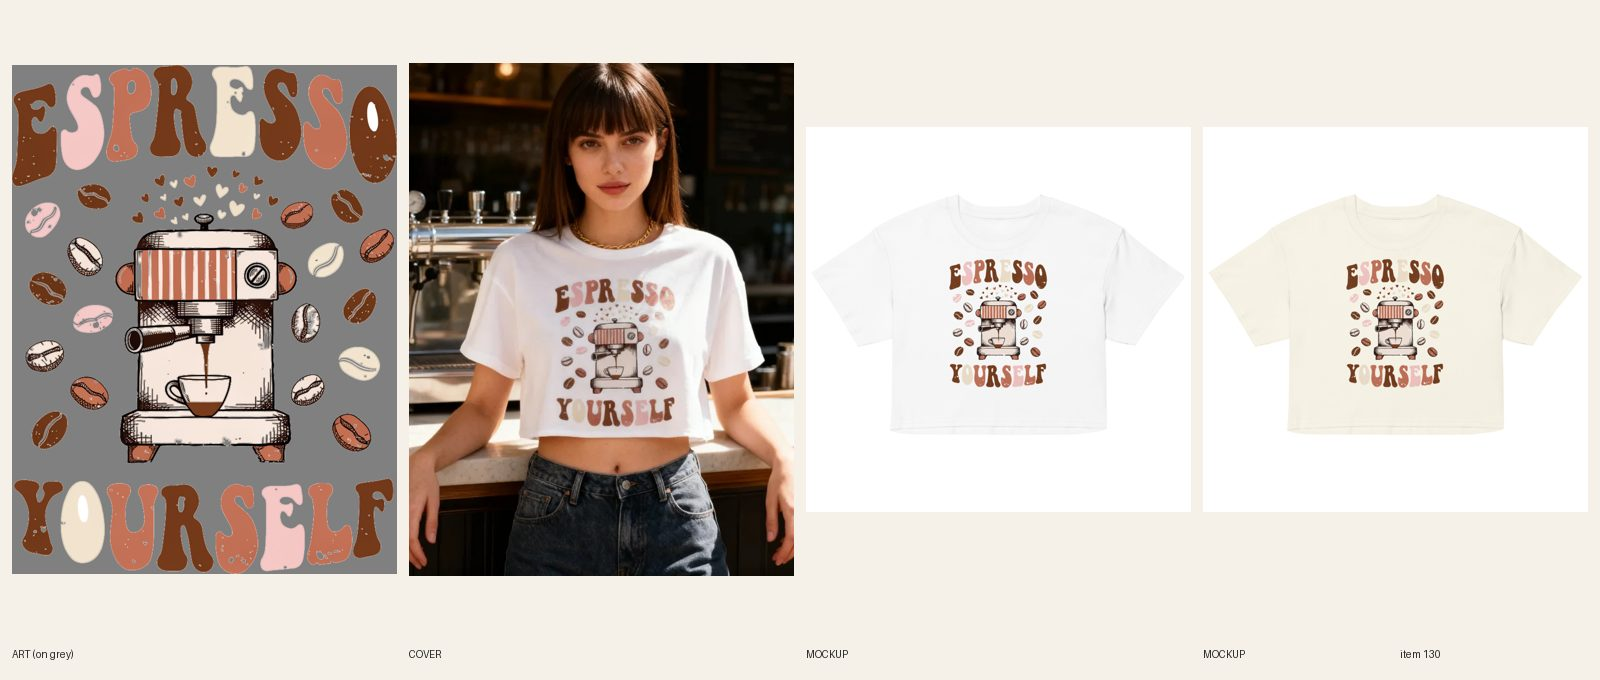
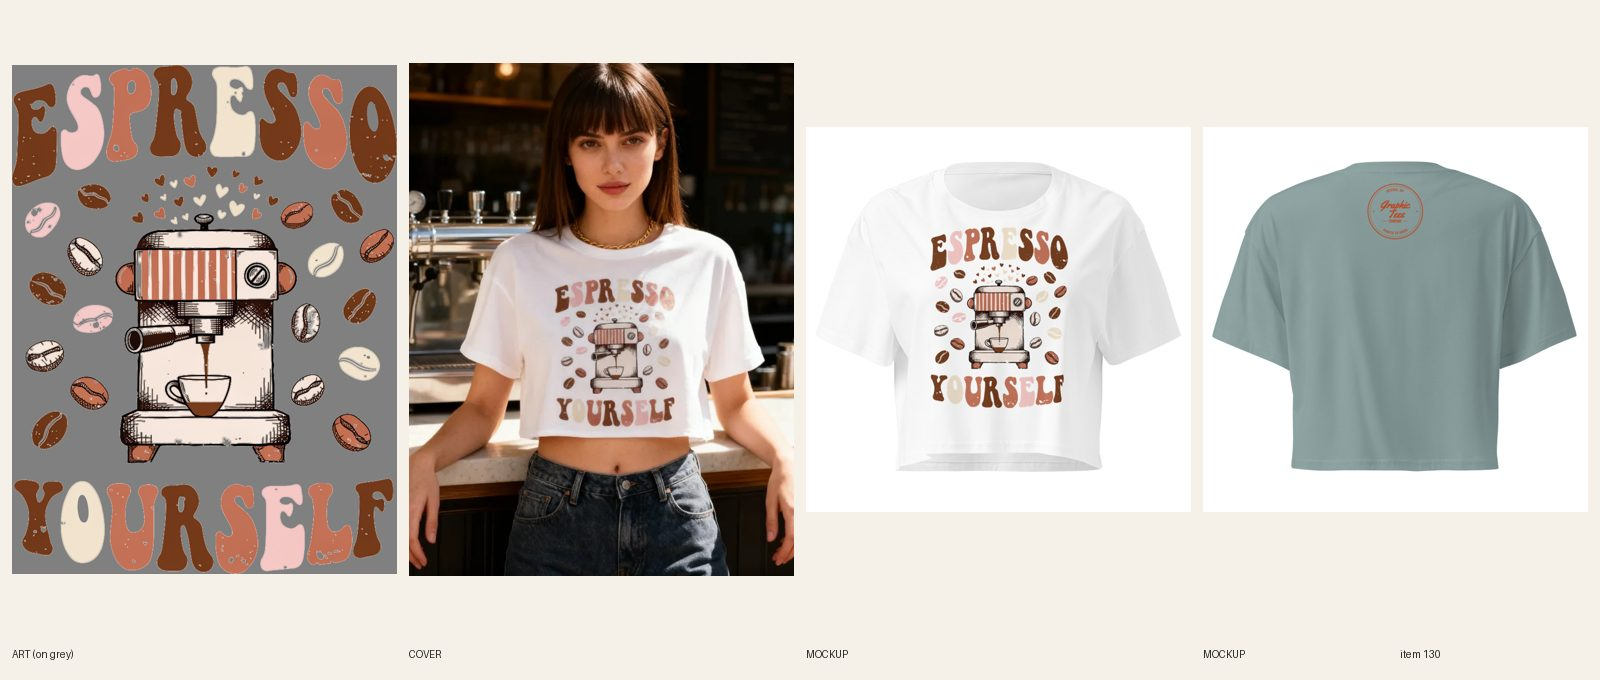
[B] review 130 (REDO done)

diff --git a/docs/intake-log.md b/docs/intake-log.md
@@ -1,4 +1,5 @@
 RUNNING lane B since 2026-10-16 12:28 UTC
+2026-10-16 12:41 UTC — [B] REDO #130 Espresso Yourself fixed: O counters transparent, re-placed at max fit (7.6 x 10 in; 8.5 in wide would clip YOURSELF in the 10 in area), 40/40 re-synced, mockups swapped, copy size line corrected. Status REVIEW (docs/review/130.jpg).
 2026-10-16 11:06 UTC — [B] REDO #127 Casserole Ministry fixed: O counters knocked out to transparent, quilted-mitts copy, new cover; 54 variants re-synced, status REVIEW (docs/review/127.jpg).
 2026-10-16 10:46 UTC — [B] Women's Nurse – Don't Say the Q Word Tee (womens-nurse-dont-say-the-q-word-graphic-tee, Shopify 15356877275440): brief #132, DRAFT → REVIEW. $24.99 / compare-at $29.99 ×54 (9 colors, S–3XL), tags nurse-shirts, graphic-tees-for-women, vintage-graphic-tees. Primary er nurse shirt 720/KD53. Printful synced 54/54 (file 1087368565). Media: flat/ghost fronts regenerated from the final print file + 1 back, variant images linked. Cover registry done. Audit needs Storefront token: cohesion checked by hand. Review sheet docs/review/132.jpg.
 2026-10-16 10:25 UTC — [D] Queue: new READY #159–162 (lane A: Sleigh Queen tee + crewneck, boutique plaid; Technically a Sweater tee + crewneck) and #163–168 (lane B: men's redo Beach Body Pending, Peaked in 1898, Conflict Resolution; new Professional Line Untangler, Rest Day Enthusiast, Knot Today). Registry #229–238 reserved. Men's redo list complete. READY now: lane A 13, lane B 13 (+ REDO A 1, B 2). Lock released.

diff --git a/docs/pipeline/130-cropped-espresso-yourself.md b/docs/pipeline/130-cropped-espresso-yourself.md
@@ -1,4 +1,4 @@
-status: BUILDING [B] 2026-10-16T10:46Z
+status: REVIEW
 lane: B
 type: new
 id: 130
@@ -21,3 +21,4 @@ handle: womens-cropped-espresso-yourself-graphic-tee
   1. R5.3.8 (letter fills): the last O in ESPRESSO has a solid white counter, and the O in YOURSELF carries a white oval highlight. On Pale Pink, Hazy Pink, Bubblegum and Mineral these print as white dots in the word. Knock the counters out to transparent in print-prep (keep the cream letters cream), preview on grey and on Mineral.
   2. R5.3.2 (fills the print area): the print is only 7.3 in wide; on the mockups it reads small next to Matcha Made in Heaven (8.5 in on the same 4062 blank). Re-place at 8.5 in wide, top 0, centered.
   Then re-upload, re-sync the 40 variants to the new file, regenerate mockups + variant images, new review sheet. Cover can stay (the print on it is the same art).
+- 2026-10-16 12:41 UTC [B]: REDO fix done: counters knocked out (art130fixed, file 1087506635), re-placed at the full print height (7.6 in wide x 10 in tall, the 4062 print area is 10x10; 8.5 in wide would clip the bottom word), all 40 variants re-synced, mockups regenerated and swapped in place (variant images stay linked), print-size line in copy corrected. Sheet docs/review/130.jpg.
